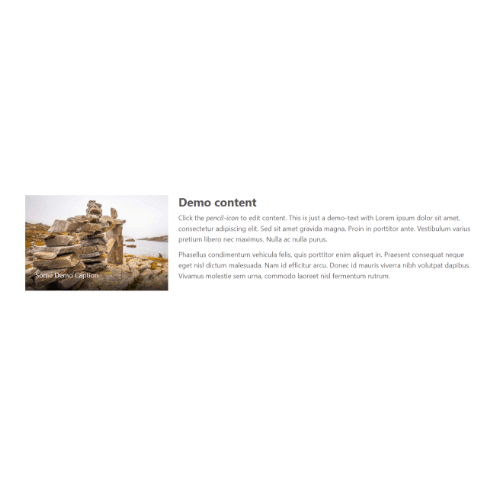
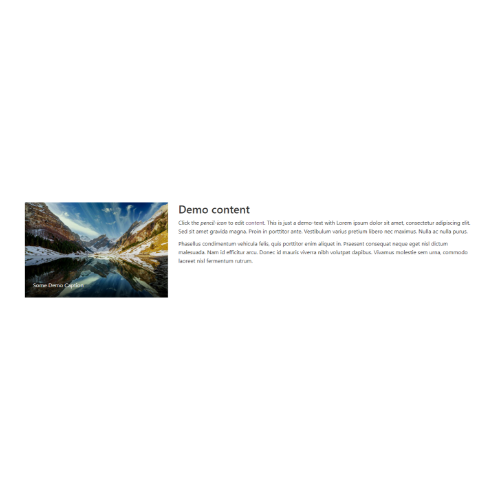
update images, reorg js, add lazyload

Changed region(s): [[0.03, 0.39, 0.93, 0.6]]

diff --git a/dist/scripts.min.js b/dist/scripts.min.js
@@ -1,2 +1,2 @@
-!function(e){var t={};function o(n){if(t[n])return t[n].exports;var a=t[n]={i:n,l:!1,exports:{}};return e[n].call(a.exports,a,a.exports,o),a.l=!0,a.exports}o.m=e,o.c=t,o.d=function(e,t,n){o.o(e,t)||Object.defineProperty(e,t,{enumerable:!0,get:n})},o.r=function(e){"undefined"!=typeof Symbol&&Symbol.toStringTag&&Object.defineProperty(e,Symbol.toStringTag,{value:"Module"}),Object.defineProperty(e,"__esModule",{value:!0})},o.t=function(e,t){if(1&t&&(e=o(e)),8&t)return e;if(4&t&&"object"==typeof e&&e&&e.__esModule)return e;var n=Object.create(null);if(o.r(n),Object.defineProperty(n,"default",{enumerable:!0,value:e}),2&t&&"string"!=typeof e)for(var a in e)o.d(n,a,function(t){return e[t]}.bind(null,a));return n},o.n=function(e){var t=e&&e.__esModule?function(){return e.default}:function(){return e};return o.d(t,"a",t),t},o.o=function(e,t){return Object.prototype.hasOwnProperty.call(e,t)},o.p="",o(o.s=0)}([function(e,t,o){"use strict";t.__esModule=!0;var n=o(1),a=o(2),i=o(3),r=o(4),l=o(5);function s(){console.log("activateAll"),a.activateObfuscatedMails(),r.activateFancybox(),i.activateYouTubePreviews(),l.activateGoogleMaps()}$(n.monkeyPatchjQueryFade);var c=window,u=c.appContent=c.appContent||{};u.activateAll=u.activateAll||s,$(s)},function(e,t,o){"use strict";t.__esModule=!0,t.monkeyPatchjQueryFade=function(){var e=$().__proto__;e.fadeIn||(e.fadeIn=function(){})}},function(e,t,o){"use strict";t.__esModule=!0,t.activateObfuscatedMails=function(){setTimeout((function(){$("[data-madr1]").not(".madr-done").each((function(){var e=$(this),t=e.attr("data-madr1")+"@"+e.attr("data-madr2")+"."+e.attr("data-madr3"),o=e.attr("data-linktext")?e.attr("data-linktext"):t;e.after('<a href="mailto:'+t+'">'+o+"</a> "),e.addClass("madr-done").hide()}))}),500)}},function(e,t,o){"use strict";t.__esModule=!0,t.activateYouTubePreviews=function(){var e=$("[data-youtube^='iframe-']");0!=e.length&&e.each((function(){$(this).on("click",(function(){var e=$(this).data("youtube"),t=$("#"+e),o=t.data("youtube-src");t.attr("src",o),$(this).addClass("hide")}))}))}},function(e,t,o){"use strict";t.__esModule=!0,t.activateFancybox=function(){$(".fancybox").fancybox&&$(".fancybox").fancybox({parent:"form:first",padding:1})}},function(e,t,o){"use strict";t.__esModule=!0,t.activateGoogleMaps=function(){var e=window,t=e.googleMapsApiKey;if(t){var o=$(".co-google-map-container"),n=t.indexOf("warning!")>-1;t=t.replace("warning!",""),0!=o.length&&o.each((function(){var o;o=this,n&&!$(o).hasClass("has-warning")&&($(o).addClass("has-warning"),$(o).append('<p class="alert alert-danger googlemap-apiwarning"><strong>Warning:</strong> This map uses a demo API-Key, which will cause problems on live web sites. Change the GoogleApiKey using <a class="alert-link target="_blank" href="https://azing.org/2sxc/r/ippFQYkz" target="_blank">these instructions</a></p>')),function(o){if(!$.fn.toGoogleMap){console.log("initGoogleMaps");var n=$.Deferred();$.fn.toGoogleMap=function(e){var t=this.get(0);return n.promise().then((function(){var o=$.extend({position:{lat:0,lng:0},zoom:8,mapTypeId:"HYBRID",infoWindowHtml:"",showInfoWindow:!0},e),n={zoom:o.zoom,mapTypeControl:!0,center:o.position,zoomControl:!0,scaleControl:!0,scrollwheel:!1,mapTypeId:google.maps.MapTypeId[o.mapTypeId]},a=new google.maps.Map(t,n),i=new google.maps.Marker({position:o.position,map:a,icon:o.icon});if(o.infoWindowHtml&&""!==o.infoWindowHtml){var r=new google.maps.InfoWindow({content:o.infoWindowHtml});google.maps.event.addListener(i,"click",(function(){r.open(a,i)}))}google.maps.event.addListenerOnce(a,"idle",(function(){o.showInfoWindow&&r.open(a,i)}))})),this},e.googleMapLoadCallback=function(){n.resolve(!0)},e.googleMapsLoaded||(e.googleMapsLoaded=!0,$.getScript("//maps.google.com/maps/api/js?key="+t+"&sensor=true&callback=googleMapLoadCallback"))}}()}))}}}]);
+!function(e){var t={};function o(a){if(t[a])return t[a].exports;var n=t[a]={i:a,l:!1,exports:{}};return e[a].call(n.exports,n,n.exports,o),n.l=!0,n.exports}o.m=e,o.c=t,o.d=function(e,t,a){o.o(e,t)||Object.defineProperty(e,t,{enumerable:!0,get:a})},o.r=function(e){"undefined"!=typeof Symbol&&Symbol.toStringTag&&Object.defineProperty(e,Symbol.toStringTag,{value:"Module"}),Object.defineProperty(e,"__esModule",{value:!0})},o.t=function(e,t){if(1&t&&(e=o(e)),8&t)return e;if(4&t&&"object"==typeof e&&e&&e.__esModule)return e;var a=Object.create(null);if(o.r(a),Object.defineProperty(a,"default",{enumerable:!0,value:e}),2&t&&"string"!=typeof e)for(var n in e)o.d(a,n,function(t){return e[t]}.bind(null,n));return a},o.n=function(e){var t=e&&e.__esModule?function(){return e.default}:function(){return e};return o.d(t,"a",t),t},o.o=function(e,t){return Object.prototype.hasOwnProperty.call(e,t)},o.p="",o(o.s=0)}([function(e,t,o){"use strict";t.__esModule=!0;var a=o(1),n=o(2),i=o(3),r=o(4),c=o(5),s=o(6);function l(){n.activateObfuscatedMails(),r.activateFancybox(),i.activateYouTubePreviews(),c.activateGoogleMaps(),s.activateLazyLoad()}$(a.monkeyPatchjQueryFade);var u=window,d=u.appContent=u.appContent||{};d.activateAll=d.activateAll||l,$(l)},function(e,t,o){"use strict";t.__esModule=!0,t.monkeyPatchjQueryFade=function(){var e=$().__proto__;e.fadeIn||(e.fadeIn=function(){})}},function(e,t,o){"use strict";t.__esModule=!0,t.activateObfuscatedMails=function(){setTimeout((function(){$("[data-madr1]").not(".madr-done").each((function(){var e=$(this),t=e.attr("data-madr1")+"@"+e.attr("data-madr2")+"."+e.attr("data-madr3"),o=e.attr("data-linktext")?e.attr("data-linktext"):t;e.after('<a href="mailto:'+t+'">'+o+"</a> "),e.addClass("madr-done").hide()}))}),500)}},function(e,t,o){"use strict";t.__esModule=!0,t.activateYouTubePreviews=function(){var e=$("[data-youtube^='iframe-']");0!=e.length&&e.each((function(){$(this).off("click").on("click",(function(){var e=$(this).data("youtube"),t=$("#"+e),o=t.data("youtube-src");t.attr("src",o),$(this).addClass("hide")}))}))}},function(e,t,o){"use strict";t.__esModule=!0,t.activateFancybox=function(){$(".fancybox").fancybox&&$(".fancybox").fancybox()}},function(e,t,o){"use strict";t.__esModule=!0,t.activateGoogleMaps=function(){var e=window,t=e.googleMapsApiKey;if(t){var o=$(".co-google-map-container"),a=t.indexOf("warning!")>-1;t=t.replace("warning!",""),0!=o.length&&o.each((function(){var o;o=this,a&&!$(o).hasClass("has-warning")&&($(o).addClass("has-warning"),$(o).append('<p class="alert alert-danger googlemap-apiwarning"><strong>Warning:</strong> This map uses a demo API-Key, which will cause problems on live web sites. Change the GoogleApiKey using <a class="alert-link target="_blank" href="https://azing.org/2sxc/r/ippFQYkz" target="_blank">these instructions</a></p>')),function(o){if(!$.fn.toGoogleMap){console.log("initGoogleMaps");var a=$.Deferred();$.fn.toGoogleMap=function(e){var t=this.get(0);return a.promise().then((function(){var o=$.extend({position:{lat:0,lng:0},zoom:8,mapTypeId:"HYBRID",infoWindowHtml:"",showInfoWindow:!0},e),a={zoom:o.zoom,mapTypeControl:!0,center:o.position,zoomControl:!0,scaleControl:!0,scrollwheel:!1,mapTypeId:google.maps.MapTypeId[o.mapTypeId]},n=new google.maps.Map(t,a),i=new google.maps.Marker({position:o.position,map:n,icon:o.icon});if(o.infoWindowHtml&&""!==o.infoWindowHtml){var r=new google.maps.InfoWindow({content:o.infoWindowHtml});google.maps.event.addListener(i,"click",(function(){r.open(n,i)}))}google.maps.event.addListenerOnce(n,"idle",(function(){o.showInfoWindow&&r.open(n,i)}))})),this},e.googleMapLoadCallback=function(){a.resolve(!0)},e.googleMapsLoaded||(e.googleMapsLoaded=!0,$.getScript("//maps.google.com/maps/api/js?key="+t+"&sensor=true&callback=googleMapLoadCallback"))}}()}))}}},function(e,t,o){"use strict";t.__esModule=!0,t.activateLazyLoad=function(){$(".lazy").Lazy&&$(".lazy").Lazy({effect:"fadeIn",effectTime:200})}}]);
 //# sourceMappingURL=scripts.min.js.map

diff --git a/src/ts/index.ts b/src/ts/index.ts
@@ -3,14 +3,15 @@ import { activateObfuscatedMails } from './mail-obfuscator';
 import { activateYouTubePreviews } from './youtube-preview';
 import { activateFancybox } from './content-fancybox';
 import { activateGoogleMaps } from './google-maps';
+import { activateLazyLoad } from './lazyload';
 
 /** activate all the content-app features */
 function activateAll() {
-  console.log('activateAll')
   activateObfuscatedMails();
   activateFancybox();
   activateYouTubePreviews();
   activateGoogleMaps();
+  activateLazyLoad();
 }
 
 // Work around a limitation of jQuery if it's installed in slim mode

diff --git a/src/ts/youtube-preview.ts b/src/ts/youtube-preview.ts
@@ -1,9 +1,13 @@
 export function activateYouTubePreviews() {
   var youtubeElem = $("[data-youtube^='iframe-']");
-
+  // If youtube element is on page
   if(youtubeElem.length != 0) {
+
+    // goes through all youtube elements
     youtubeElem.each(function() {
-      $(this).on('click', function(){
+      // off removes click event - so its only added once
+      // add click event
+      $(this).off('click').on('click', function(){
         var iframeId = $(this).data("youtube");
         var iframeElem = $("#" + iframeId);
         var youtubeUrl = iframeElem.data("youtube-src");

diff --git a/src/ts/content-fancybox.ts b/src/ts/content-fancybox.ts
@@ -3,9 +3,6 @@ export function activateFancybox() {
   // TODO: 2dm - must ask 2ro/2tl why different from gallery
   // and if this won't break each other
   if ($('.fancybox').fancybox) {
-    $('.fancybox').fancybox(<FancyBoxOptions>{
-      parent: 'form:first',
-      padding: 1
-    });
+    $('.fancybox').fancybox();
   }
 }

diff --git a/src/ts/lazyload.ts b/src/ts/lazyload.ts
@@ -1,0 +1,10 @@
+/* Lazyload */
+export function activateLazyLoad() {
+  /* Lazy - only if jQuery Animations exists */
+  if (($('.lazy') as any).Lazy) {
+    ($('.lazy') as any).Lazy({
+      effect: 'fadeIn',
+      effectTime: 200,
+    });
+  }
+}
